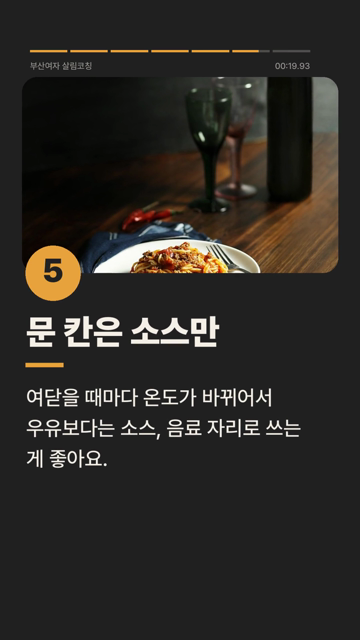
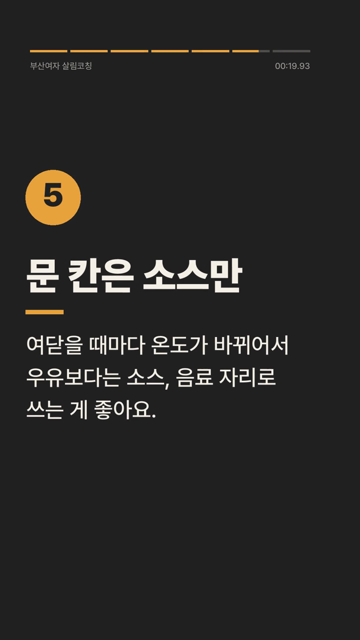
릴스 사진: 본문 장은 가로 사진도 찾기, 맞는 사진 없는 장면만 사진 없이, 002 다시 준비
Claude-Session: https://claude.ai/code/session_01Ej6uK3p4TB7f1c2qyCj6cE

Changed region(s): [[0.0611, 0.0938, 0.9472, 0.75], [0.5194, 0.125, 0.55, 0.1562]]

diff --git a/scripts/media.py b/scripts/media.py
@@ -52,11 +52,11 @@ def _norm(w: str) -> str:
     return w
 
 
-def _pixabay(query: str, n: int, key: str) -> list[str]:
+def _pixabay(query: str, n: int, key: str, orientation: str = "vertical") -> list[str]:
     """태그가 검색어와 충분히 겹치는 사진만 (고정 규칙: 사진은 그 장의 글과 맞아야 함)
     검색어 낱말의 2/3 이상이 사진 태그에 있어야 통과, 많이 겹치는 순서로 고른다."""
     r = requests.get("https://pixabay.com/api/", headers=UA, timeout=30,
-                     params={"key": key, "q": query, "image_type": "photo", "orientation": "vertical",
+                     params={"key": key, "q": query, "image_type": "photo", "orientation": orientation,
                              "safesearch": "true", "per_page": 100, "order": "popular"})
     r.raise_for_status()
     words = [_norm(w) for w in query.replace(",", " ").split() if w.lower() not in STOP]
@@ -90,10 +90,14 @@ def _openverse(query: str, n: int) -> list[str]:
     return urls
 
 
-def _search(query: str, n: int) -> list[str]:
+def _search(query: str, n: int, hook: bool = False) -> list[str]:
+    """훅(전체 화면)은 세로 사진 먼저, 본문 장(가로 카드)은 가로·세로 모두에서 찾는다"""
     src = photo_source()
     if src == "Pixabay":
-        return _pixabay(query, n, os.environ["PIXABAY_KEY"].strip())
+        key = os.environ["PIXABAY_KEY"].strip()
+        if hook:
+            return _pixabay(query, n, key, "vertical") or _pixabay(query, n, key, "all")
+        return _pixabay(query, n, key, "horizontal") or _pixabay(query, n, key, "all")
     if src == "Pexels":
         return _pexels(query, n, os.environ["PEXELS_KEY"].strip())
     return []
@@ -111,9 +115,8 @@ def photos(post: dict, stem: str, n: int) -> list[Path]:
     folder = ROOT / "out" / stem / "photos"
     stamp = folder / "queries.json"
     if folder.exists() and stamp.exists() and json.loads(stamp.read_text(encoding="utf-8")) == queries:
-        have = sorted(folder.glob("*.jpg"))
-        if len(have) >= len(queries):
-            return have[:len(queries)]
+        have = [folder / f"{i:02d}.jpg" for i in range(len(queries))]
+        return [h if h.exists() else None for h in have]
     if folder.exists():
         for f in folder.glob("*"):
             f.unlink()
@@ -121,13 +124,14 @@ def photos(post: dict, stem: str, n: int) -> list[Path]:
     used, out = set(), []
     for i, q in enumerate(queries[:n]):
         try:
-            urls = [u for u in _search(q, 6) if u not in used]
+            urls = [u for u in _search(q, 6, hook=(i == 0)) if u not in used]
         except Exception as e:  # 열쇠 값은 찍지 않음
             print(f"사진 검색 실패({q}): {type(e).__name__} {getattr(getattr(e, 'response', None), 'status_code', '')}")
             urls = []
         if not urls:
-            print(f"'{q}' 사진을 못 찾아서 이 장은 사진 없이 만들어요")
-            return []  # 한 장이라도 비면 글과 안 맞는 사진이 섞일 수 있어 전체를 사진 없이
+            print(f"[장면 {i}] '{q}' 와 맞는 사진이 없어 이 장면만 사진 없이 만들어요")
+            out.append(None)
+            continue
         u = urls[0]
         used.add(u)
         b = requests.get(u, headers=UA, timeout=60)
@@ -135,6 +139,7 @@ def photos(post: dict, stem: str, n: int) -> list[Path]:
         f = folder / f"{i:02d}.jpg"
         f.write_bytes(b.content)
         out.append(f)
+        print(f"[장면 {i}] '{q}' 사진 찾음")
     stamp.write_text(json.dumps(queries, ensure_ascii=False), encoding="utf-8")
     return out
 

diff --git a/scripts/reel.py b/scripts/reel.py
@@ -147,14 +147,15 @@ class Scene:
 
 # ---------- 장면 준비 ----------
 def build(post: dict, photos=None):
-    photos = [Image.open(x) for x in (photos or [])]
+    # 장면별 사진 목록 [훅, 1장, 2장, …]. 맞는 사진이 없는 장면은 None → 그 장면만 사진 없이
+    photos = [Image.open(x) if x else None for x in (photos or [])]
     d = ImageDraw.Draw(Image.new("RGB", (10, 10)))
     scenes = []
     t = 0.0
 
     # 훅
     f_title = card_font("Black", 140)
-    has_photo = bool(photos)
+    has_photo = bool(photos) and photos[0] is not None
     t_col, s_col = (CREAM, (230, 222, 208)) if has_photo else (INK, SOFT)
     t_lines = wrap(d, post["title"], f_title, TEXT_W)
     sub = post.get("subtitle", "")
@@ -183,7 +184,7 @@ def build(post: dict, photos=None):
     for i, sl in enumerate(post["slides"], 1):
         dark = i % 2 == 1
         fg, sub_c = (CREAM, (200, 193, 182)) if dark else (INK, SOFT)
-        ph = photos[i % len(photos)] if photos else None
+        ph = photos[i] if i < len(photos) else None
         f_head, f_body = (card_font("Black", 100), card_font("Medium", 60)) if ph else (card_font("Black", 112), card_font("Medium", 64))
         heads = [text_layer(s, f_head, fg) for s in wrap(d, sl["head"], f_head, TEXT_W)]
         bodies = [text_layer(s, f_body, fg) for s in wrap(d, sl["body"], f_body, TEXT_W)]

diff --git a/scripts/publish_reel.py b/scripts/publish_reel.py
@@ -108,7 +108,7 @@ def render(stem: str, preview: bool = False) -> Path:
     reel.render(ROOT / "content" / f"{stem}.json", out, fps=60, photos=pics,
                 track=tpath, track_start=float(track.get("start", 0)) if track else 0.0)
     info = {"date": today(), "sha": sha(out), "music": track["file"] if track else "직접 만든 배경음",
-            "photos": [str(x.relative_to(ROOT)) for x in pics], "queries": post.get("photos", [])}
+            "photos": [str(x.relative_to(ROOT)) if x else None for x in pics], "queries": post.get("photos", [])}
     if not preview:
         d["prepared"][stem] = info
         d["approved"].pop(stem, None)  # 다시 만들었으면 다시 승인 받아야 함
